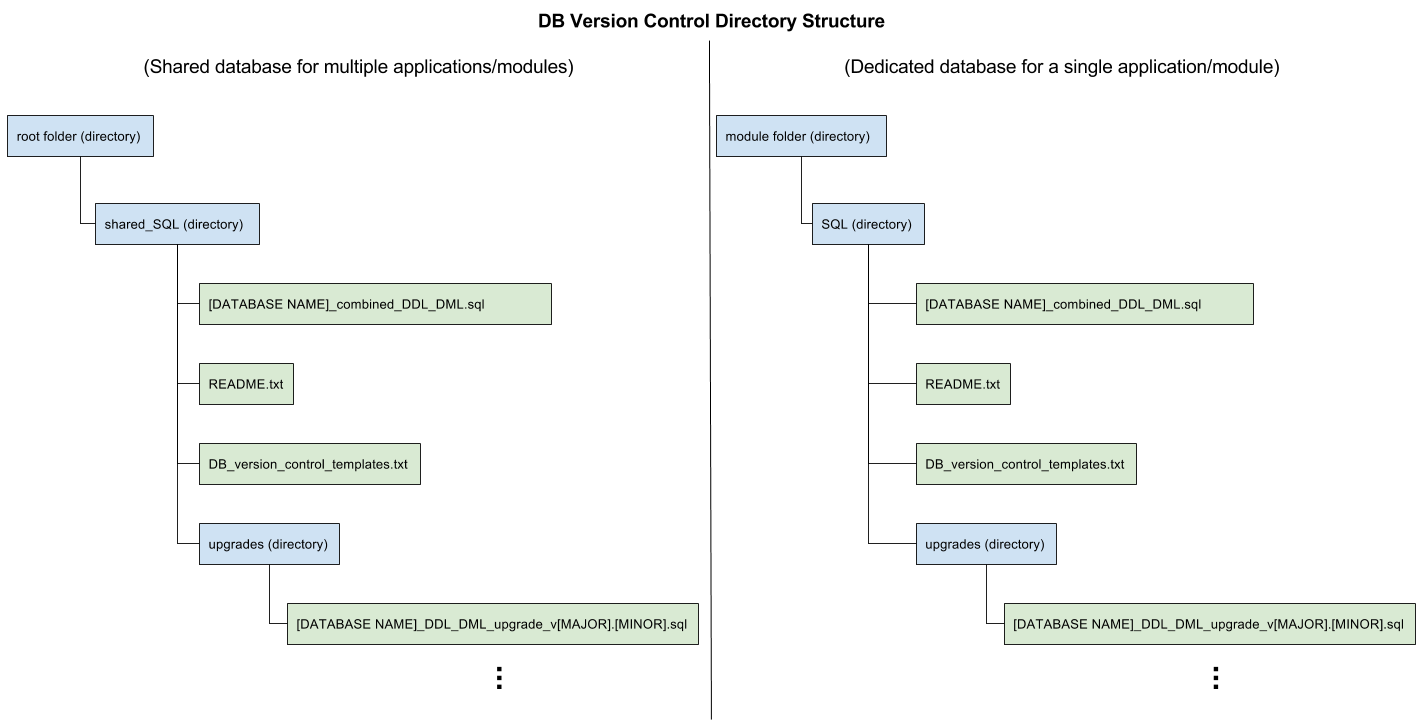
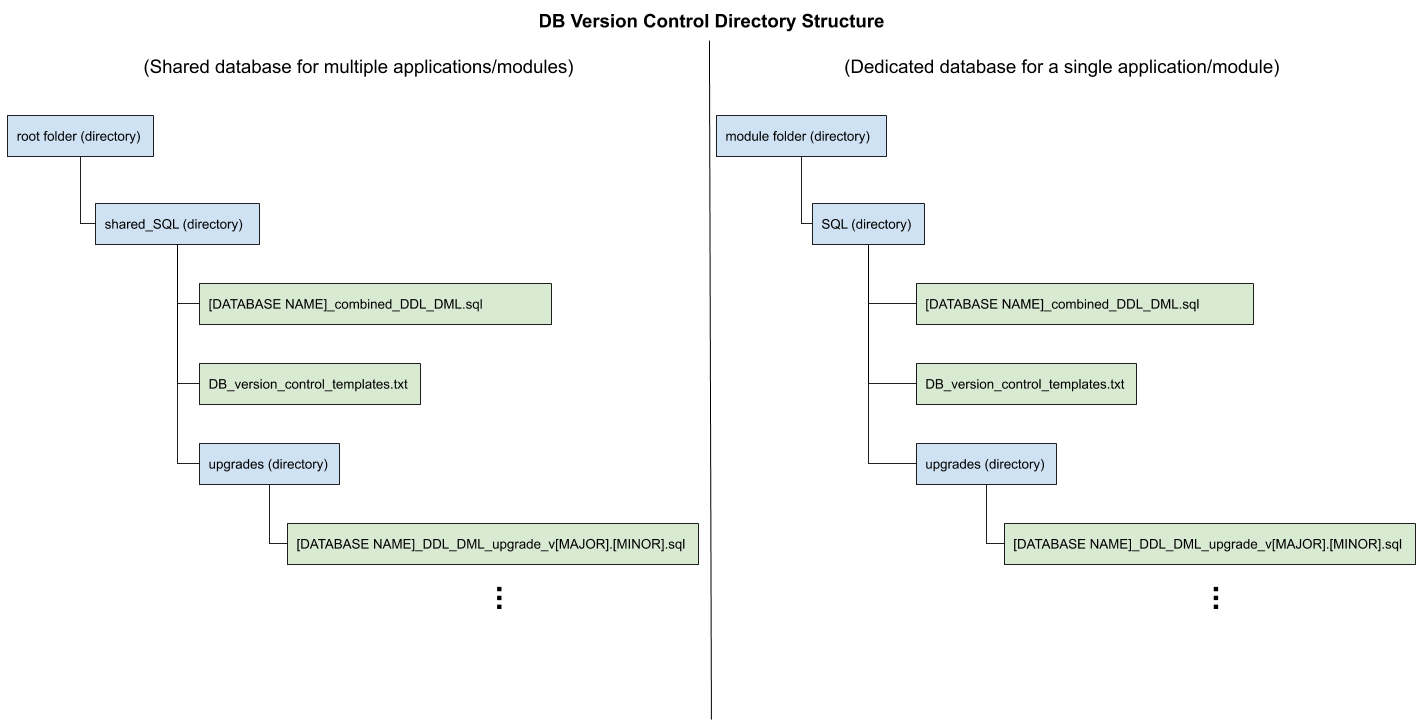
--DB version control: Documentation Update--
DB_version_control_templates.txt files were updated to make the templates more accurate and clear

docs\DB Version Control Directory Structure.png was updated to remove the readme.txt files in the SQL/shared_SQL folders as they are obsolete
docs\DB Version Control Module SOP.MD was updated to fix broken links
docs\Installing or Upgrading the DB Version Control Module.MD and docs\Template - Installing or Upgrading the Database.MD were updated to abbreviate the Database Version Control Module (VCM)

diff --git a/docs/DB Version Control Module SOP.MD b/docs/DB Version Control Module SOP.MD
@@ -21,7 +21,7 @@ There is a need to store the upgrade history for a given database instance so it
   - The "SQL" directory is for projects that have a dedicated database model that is not shared between multiple applications/modules (e.g. DB Version Control).  This SQL folder is stored in a given module's folder since it is module-specific.
     - Copy the [SQL template](./repository_templates/SQL) folder into the appropriate application/module directory
   - The "Shared_SQL" directory is for projects that have multiple applications/modules in one repository that use the same database module (e.g. PIFSC Data Set Database with bulk download module, URL verification module, and APEX data management application).  This Shared_SQL folder is stored at the root of the repository since it is shared between multiple applications/modules.  
-    - Copy the [Shared_SQL template](repository_templates\Shared_SQL) folder into the project repository directory
+    - Copy the [Shared_SQL template](./repository_templates/shared_SQL) folder into the project repository directory
   - (Code Commit and DB Upgrade Templates) The SQL/shared_SQL "database root" directory contains a [DB_version_control_templates.txt](./DB_version_control_templates.txt) file that provides some standard templates for code commit messages and database upgrade file comments.  These can be modified to be project-specific so they can be easily copied and pasted into commit messages and database module upgrade files.  Each line in the template file that starts with "**" is informational and will not be actually added to the commit message or database upgrade files.  The first section (Code Commit Templates) contains templates for code commits and the second section (Database Upgrade Templates) contains templates for database upgrade files.  Placeholders (indicated by brackets) will be replaced with actual content as indicated in the informational content.  
     - **Note: For ease of use the database module upgrade template content has been included in the DDL/DML template files.
 - (DB Upgrade Files) The "upgrades" folder contains each individual database module upgrade file that is necessary to apply a given database module upgrade.  The naming convention is [DATABASE NAME]_DDL_DML_upgrade_v[MAJOR].[MINOR].sql where [DATABASE NAME] is the name of the database module with underscores instead of spaces.  For example PIFSC_data_set_DB_DDL_DML_upgrade_v0.5.sql) is the fifth minor version of the PIFSC Data Set DB module.  
@@ -29,7 +29,7 @@ There is a need to store the upgrade history for a given database instance so it
 - (Combined DB Definition File)The "database root" directory contains a combined DDL/DML file ([DATABASE NAME]_combined_DDL_DML.sql) that will deploy the given database module version on a blank database instance.  
   - The combined DDL/DML file will be updated each time a new database module upgrade has been developed to add a reference to the new database upgrade file so that the combined file will run each database upgrade file in the proper sequence to generate the necessary objects and reference/application data for a new database module deployment of the given version.  The template for the headings used in the combined file can be found in [DB_version_control_templates.txt](./DB_version_control_templates.txt) under the "Database Upgrade Templates" section.
 - (Standard DB Installation/Upgrade Documentation) The "Installing or Upgrading the Database Documentation" ([example](./Installing%20or%20Upgrading%20the%20DB%20Version%20Control%20Module.MD)) is a standard document that provides information for installing/upgrading a given database module that should be linked from the given application's/module's main technical document so the database module upgrade process is clearly defined.
-  - When installing the DB version control module the [Template - Installing or Upgrading the Database Documentation.MD](./Template%20-%20Installing%20or%20Upgrading%20the%20Database%20Documentation.MD) should be copied to a given module's code repository's directory structure (and renamed) and all placeholders should be replaced with their actual values based on the guidance in the document comments.  
+  - When installing the DB version control module the [Template - Installing or Upgrading the Database Documentation.MD](./Template%20-%20Installing%20or%20Upgrading%20the%20Database.MD) should be copied to a given module's code repository's directory structure (and renamed) and all placeholders should be replaced with their actual values based on the guidance in the document comments.  
 
 ## DB Version Control Module Procedure:
 - (Project Database Upgrades) Copy and rename the [DATABASE NAME]_DDL_DML_upgrade_v0.1.sql with the appropriate values for the template placeholders to use as the current project database upgrade file.  

diff --git a/docs/Installing or Upgrading the DB Version Control Module.MD b/docs/Installing or Upgrading the DB Version Control Module.MD
@@ -3,4 +3,4 @@
 ## Procedure:
 - New installation: If you are installing this module on a database instance for the first time run the [DB_version_control_combined_DDL_DML.sql](../SQL/DB_version_control_combined_DDL_DML.sql) script.
 - Upgrading an existing installation: You must first determine which version of the Database Version Control database is currently installed by querying the DB_UPGRADE_LOGS_V view with the UPGRADE_APP_NAME = 'Database Version Control'.  The highest UPGRADE_VERSION value is the currently installed database version (e.g. 0.3).  The scripts (DB_version_control_DDL_DML_upgrade_v[MAJOR].[MINOR].sql where [MAJOR] is the major version number and [MINOR] is the minor version number) in the [SQL\upgrades](../SQL/upgrades) folder will be run in order to upgrade the database to the desired version.  For instance if the current version of the database is 0.3 and the desired database version is 0.5 the DB_version_control_DDL_DML_upgrade_v0.4.sql and DB_version_control_DDL_DML_upgrade_v0.5.sql files will be executed on the database instance in that order to perform the upgrade.  
-- **Note: This database utilizes the [Database Version Control Module (VCM)](https://gitlab.pifsc.gov/centralized-data-tools/database-version-control-module), the [Database Version Control Module SOP](https://gitlab.pifsc.gov/centralized-data-tools/database-version-control-module/-/blob/master/docs/DB%20Version%20Control%20Module%20SOP.MD) contains detailed information for the general database version control policies
+- **Note: This database utilizes the [Database Version Control Module (VCM)](https://gitlab.pifsc.gov/centralized-data-tools/database-version-control-module), the [VCM SOP](https://gitlab.pifsc.gov/centralized-data-tools/database-version-control-module/-/blob/master/docs/DB%20Version%20Control%20Module%20SOP.MD) contains detailed information for the general database version control policies

diff --git a/docs/Template - Installing or Upgrading the Database.MD b/docs/Template - Installing or Upgrading the Database.MD
@@ -3,4 +3,4 @@
 ## Procedure:
 - New installation: If you are installing this module on a database instance for the first time run the [SQL Directory]/[DB File Name Prefix]_combined_DDL_DML.sql script.
 - Upgrading an existing installation: You must first determine which version of the PIFSC Data Set Database is currently installed by querying the DB_UPGRADE_LOGS_V view with the UPGRADE_APP_NAME = '[DB Name]'.  The highest UPGRADE_VERSION value is the currently installed database version (e.g. 0.3).  The scripts ([DB File Name Prefix]_DDL_DML_upgrade_v[MAJOR].[MINOR].sql where [MAJOR] is the major version number and [MINOR] is the minor version number) in the [SQL Directory]/upgrades folder will be run in order to upgrade the database to the desired version.  For instance if the current version of the database is 0.3 and the desired database version is 0.5 the [DB File Name Prefix]_DDL_DML_upgrade_v0.4.sql and [DB File Name Prefix]_DDL_DML_upgrade_v0.5.sql files will be executed on the database instance in that order to perform the upgrade.  
-- **Note: This database utilizes the [Database Version Control Module (VCM)](https://gitlab.pifsc.gov/centralized-data-tools/database-version-control-module), the [Database Version Control Module SOP](https://gitlab.pifsc.gov/centralized-data-tools/database-version-control-module/-/blob/master/docs/DB%20Version%20Control%20Module%20SOP.MD) contains detailed information for the general database version control policies
+- **Note: This database utilizes the [Database Version Control Module (VCM)](https://gitlab.pifsc.gov/centralized-data-tools/database-version-control-module), the [VCM SOP](https://gitlab.pifsc.gov/centralized-data-tools/database-version-control-module/-/blob/master/docs/DB%20Version%20Control%20Module%20SOP.MD) contains detailed information for the general database version control policies
